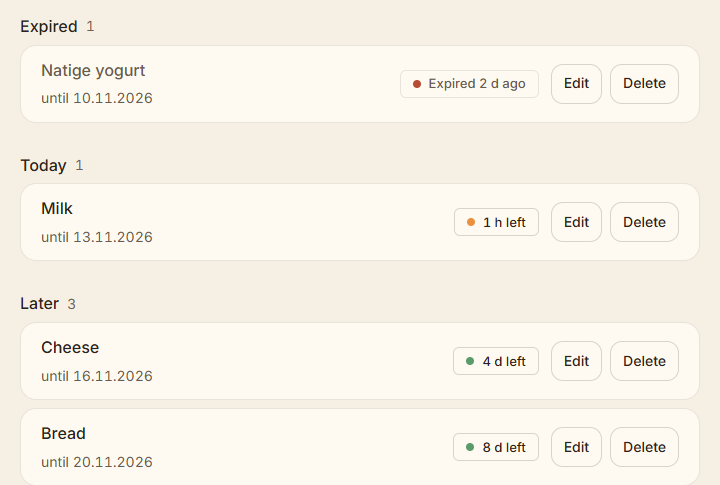
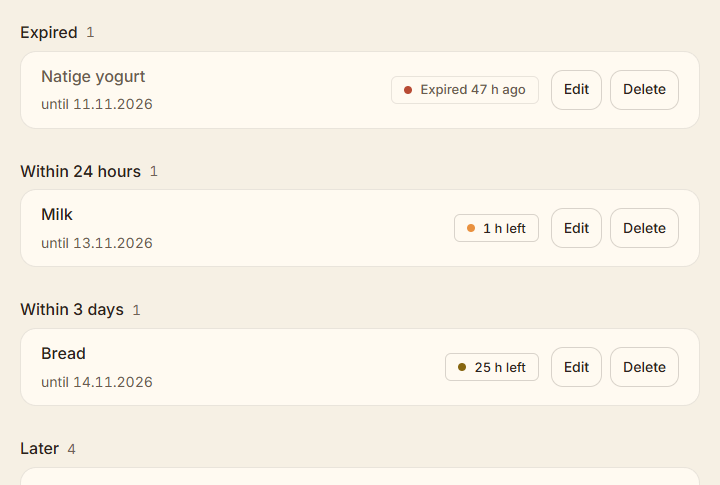
Hero EN screenshot with 'Within 24 hours' group; journal for /app redesign and fact check

diff --git a/CLAUDE.md b/CLAUDE.md
@@ -444,3 +444,12 @@ FridgeKeeper\
   - Проверка: `uv run pytest -q` → `98 passed` (было 111, потому что тесты старого потока с кнопками удалены вместе с кодом); `node --check static/js/login.js` → OK.
   - Не проверено: вход в живом Telegram и на Vercel, страница `/login` в браузере (360 px, светлая и тёмная тема), камера на телефоне.
   - Риски: нет лимита частоты на `/auth/bot-login/verify` (рекомендуется правило в Vercel Firewall), строки `login_codes` не чистятся, SHA-256 без соли, код можно выманить обманом у человека. Мёртвая переменная `auth_url` в `app.py` (`login_page`).
+
+- **13.11.2026, /team: редизайн `/app` по референсам, новые скриншоты, сверка с реальностью** (по слову пользователя «пушь сразу»):
+  - `team-refs` (Sonnet 5.5): открыл 4 страницы (land-book FoodHero, Mill, Superlist, Mobbin); Mobbin закрыт входом, источником не считается. Скриншоты в `design-system\refs\`. Приёмы взяты со скриншотов превью, стили и анимации не снимались.
+  - `team-designer` (Sonnet 5.5): `/app` теперь со сводкой вверху («Скоро истекает: N»), группами с счётчиком (Просрочено / До 24 часов / До 3 дней / Позже), строкой «название, дата, плашка статуса цветом и текстом», пустым состоянием, строкой про Start в боте. Файлы: `templates\app.html`, `static\css\app.css`, `static\js\app.js`, `core\i18n.py`. Логика API не менялась.
+  - `unslop-reviewer` (Haiku 5.5): «есть правки (8)»; `unslop-fixer` применил 8 из 9 пунктов: вторая главная кнопка → ghost, точки в подписях, радиусы 12 и 6 px, мёртвые ключи `app_photo` и класс `.app__lead` удалены. Не применено: цвет ошибки (в MASTER.md нет раздела «Семантика»), удаление `js_app_pill_expired` и `js_app_empty` (правило про `js_*`). Предложения без решения пользователя: двухколоночная раскладка `/app`, статус без рамки.
+  - Скриншоты: `static\img\app-desktop.png`, `app-desktop-en.png` (720×485, список по группам), `app-mobile.png`, `app-mobile-en.png` (351×745, верх страницы). Сняты на временном сервере с SQLite и вымышленными продуктами, сервер остановлен. В презентации заменены две картинки: слайд 7 (полная страница `/app`) и первый телефон на слайде 8, текст слайдов не менялся (проверено сравнением `extract_text`). Второй телефон (Mini App) остался прежним. Старый PDF: `presentation\FridgeKeeper_presentation_old.pdf`.
+  - Сверка с кодом (`team-controller`, Sonnet 5.5): подтверждено напоминания 24/12/6/2, дедлайн 00:00 по Астане, проверка каждые 5 минут, команды бота, пороги точек, OCR ru/en/kk, токен без хранилища. Расхождения: подпись группы «Сегодня» на деле значит «до 24 часов» (исправлено на «До 24 часов» / «Within 24 hours», скриншоты пересняты); `feature2_text` обещал «тот же список в Telegram», а в `/mini` списка нет (исправлено, RU и EN). Не исправлено, ждёт слова пользователя: слайд «Статус» в PDF говорит «6 команд бота», в меню бота 7 (есть `/login`); текст «Некоммерческий проект» (`final_small1`) кодом не подтверждён.
+  - Проверка: `uv run pytest -q` → `99 passed, 1 warning in 13.84s`; `node --check static/js/app.js` → NODE_OK.
+  - Не проверено глазами: светлая и тёмная тема `/app` после правок, 390 px с длинными названиями, вид десктопного хиро на ширине 1280, слайды 7 и 8 в полном размере (смотрел через встроенный просмотрщик PDF в узком окне). В шапке `/app` остались «Открыть приложение» и ссылки лендинга (решение пользователя не принято).
